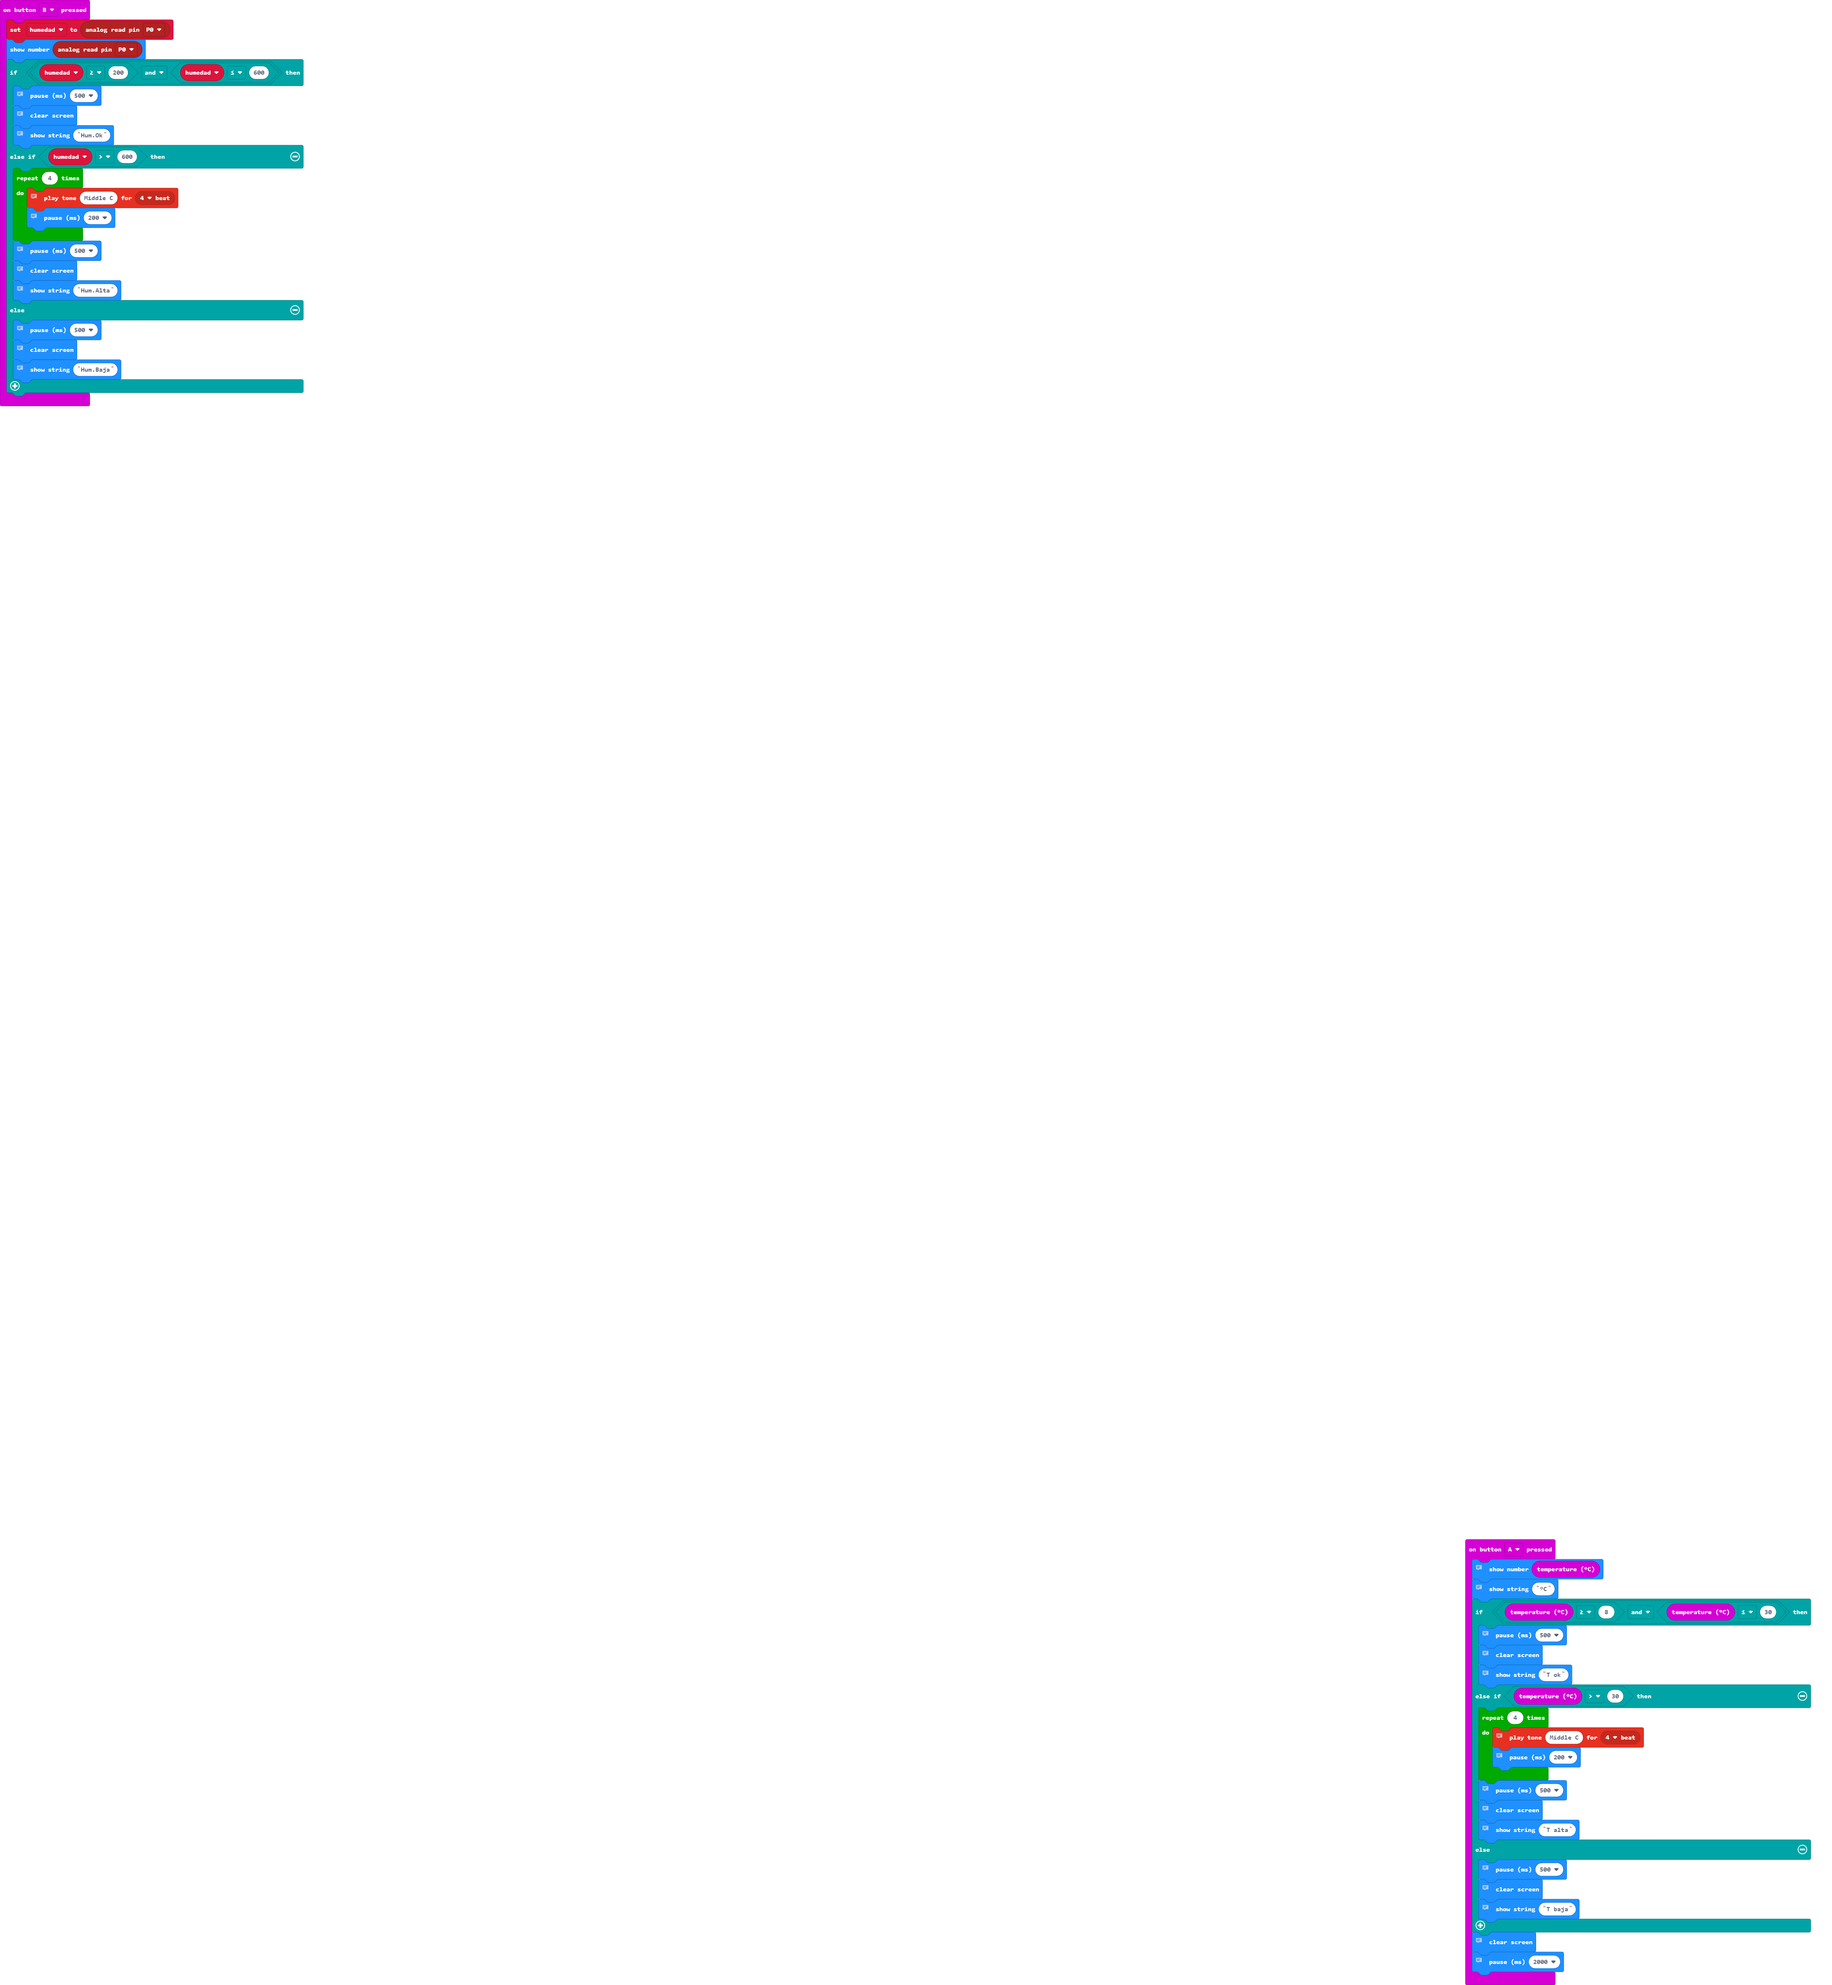
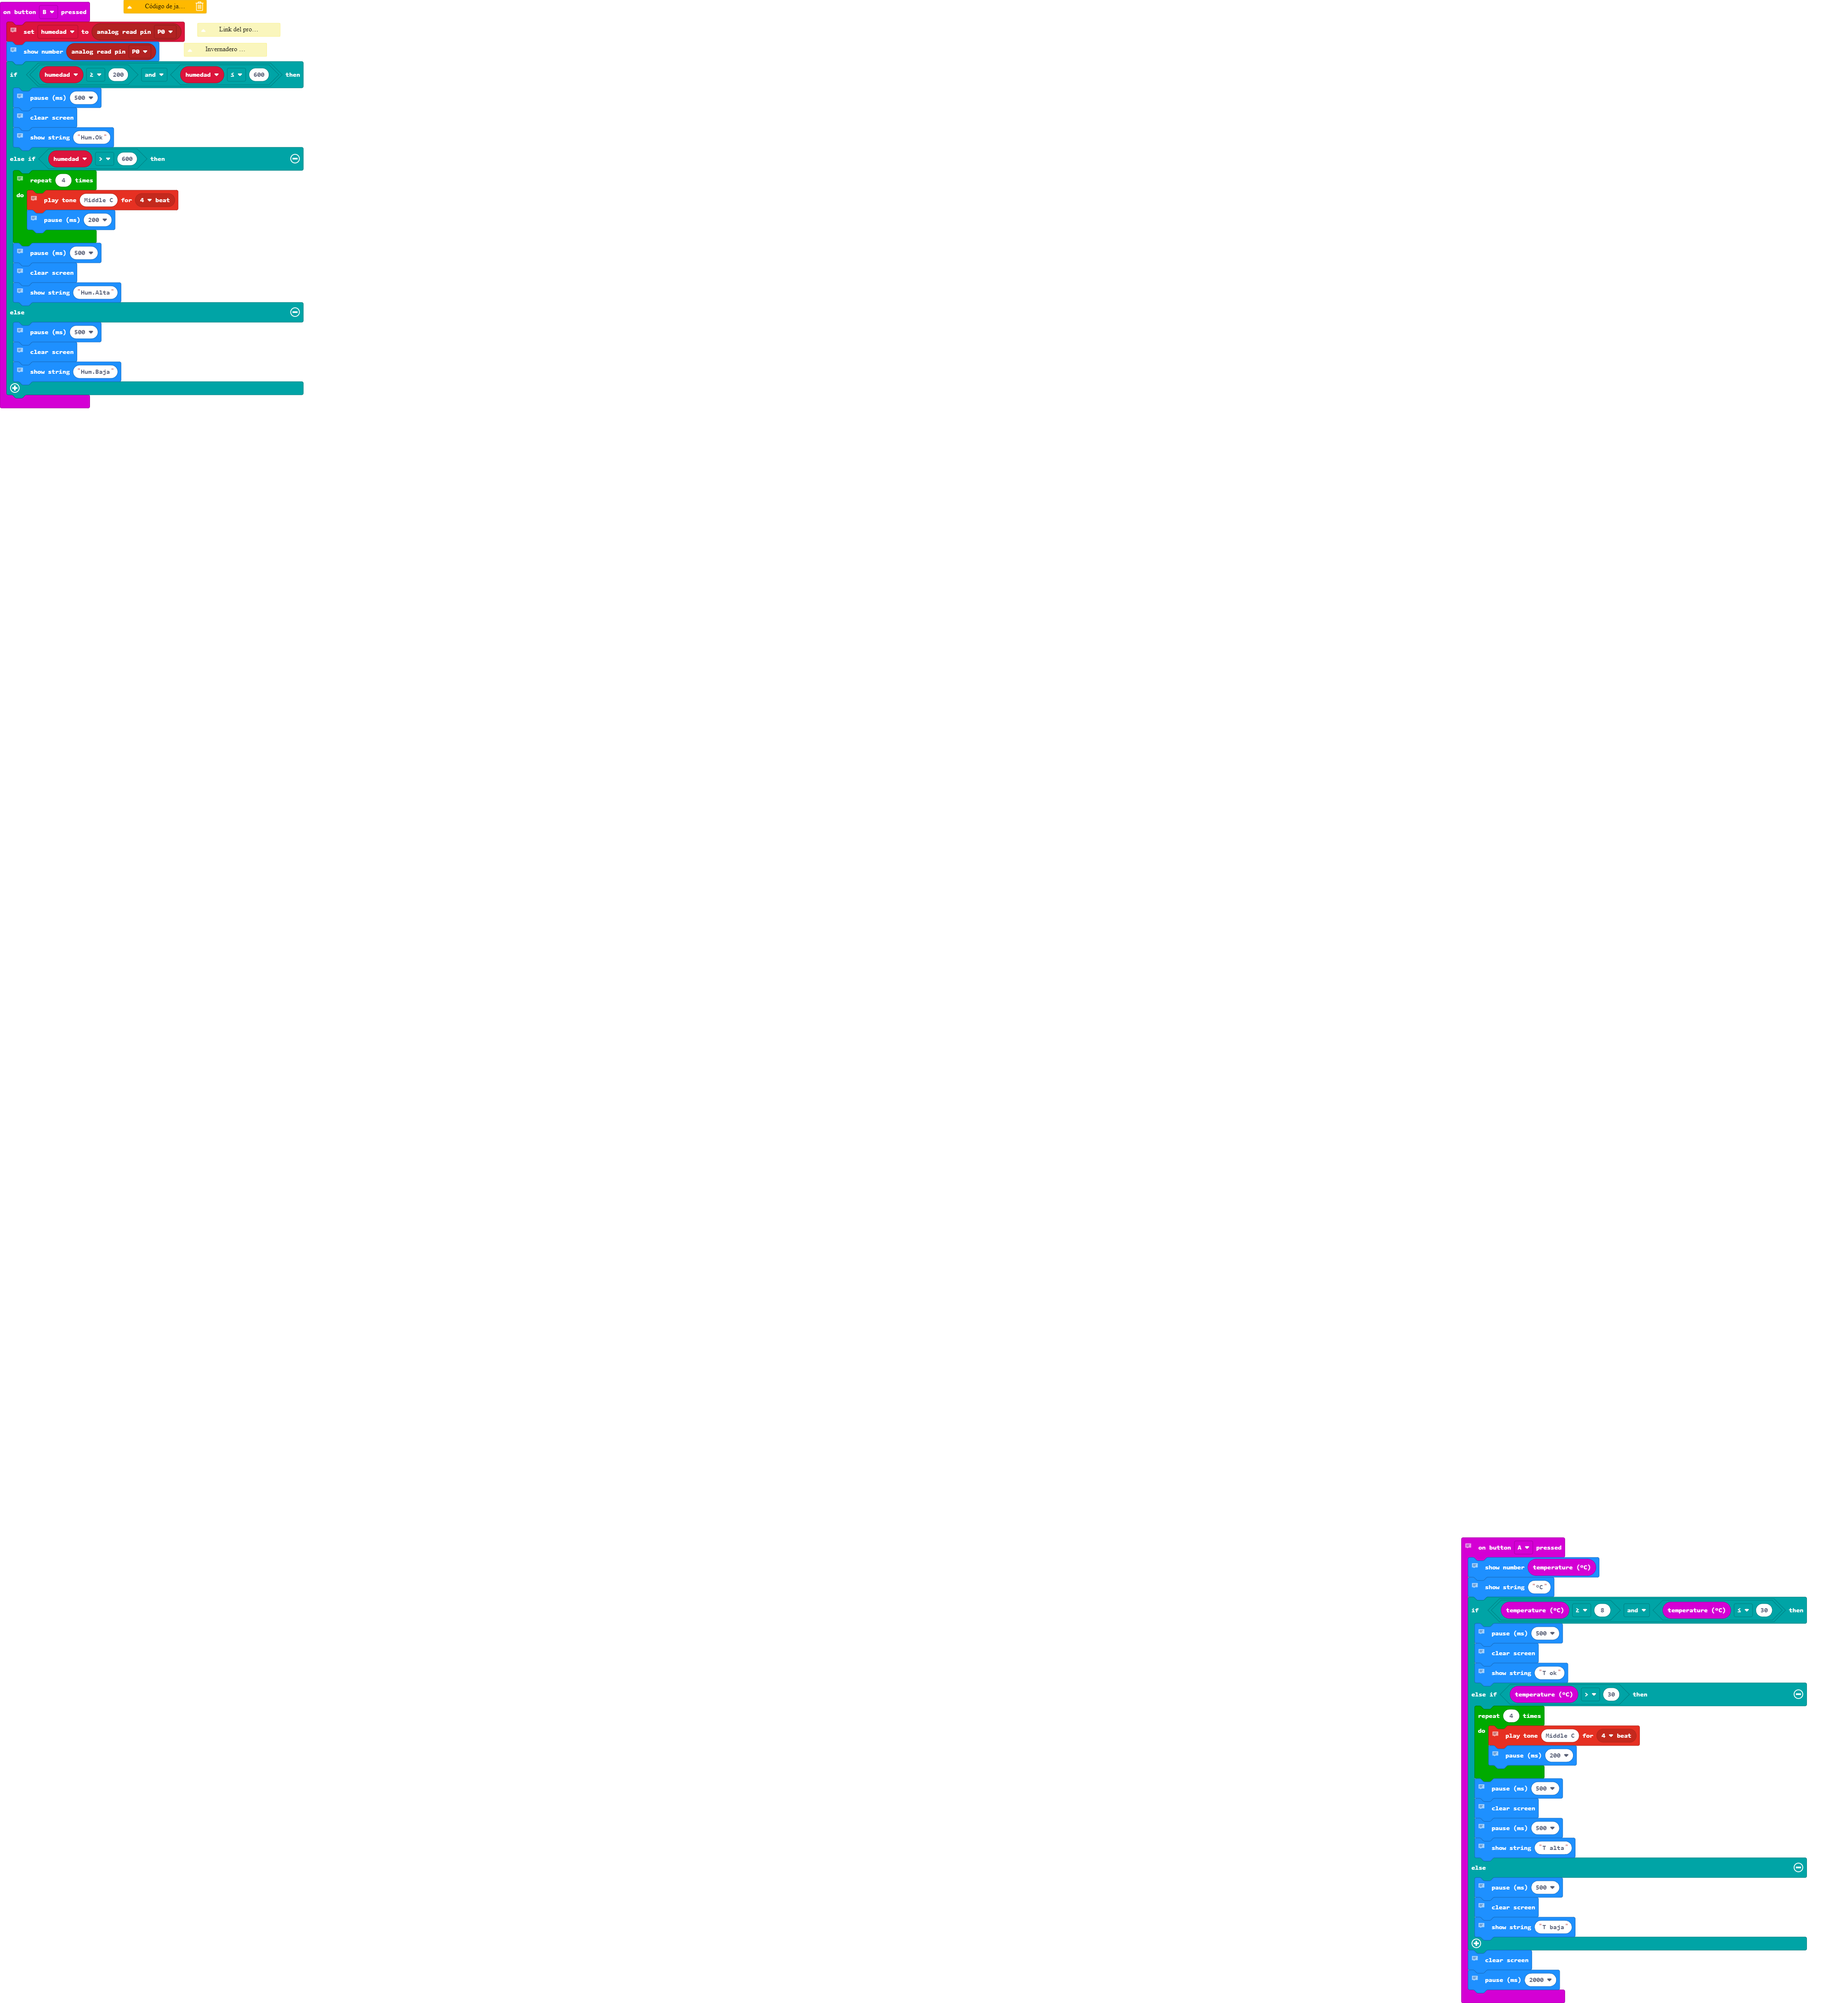
comments in code

Changed region(s): [[0.7788, 0.7481, 0.9968, 1.0], [0.0, 0.0, 0.1558, 0.2182]]

diff --git a/main.ts b/main.ts
@@ -1,7 +1,8 @@
 let humedad = 0
+// establece en cero el valor inicial de humedad. La variable puede tomar un valor aleatorio entre 0 y 1023
 input.onButtonPressed(Button.A, function () {
-    // muestra la temperatura
-    // actual del sensor del microbit, por defecto aparece en 21 grados celsius, pero se puede modificar durante las pruebas
+    // acciones al presionar el botón A
+    // muestra la temperatura actual del sensor del microbit, por defecto aparece en 21 grados celsius, pero se puede modificar durante las pruebas
     basic.showNumber(input.temperature())
     // muestra el símbolo de grados celsius
     basic.showString("°C")
@@ -10,7 +11,7 @@ input.onButtonPressed(Button.A, function () {
         basic.pause(500)
         // limpiar pantalla
         basic.clearScreen()
-        // muestre mensaje OK
+        // muestre mensaje Temp. OK
         basic.showString("T ok")
     } else if (input.temperature() > 30) {
         for (let index = 0; index < 4; index++) {
@@ -24,7 +25,9 @@ input.onButtonPressed(Button.A, function () {
         basic.pause(500)
         // limpiar pantalla
         basic.clearScreen()
-        // muestre mensaje Temp. alta        basic.pause(500) // pausa de 500 milisegundos
+        // pausa de 500 milisegundos
+        basic.pause(500)
+        // muestre mensaje Temp. alta
         basic.showString("T alta")
     } else {
         // condicional en caso de que la temperatura sea inferior a 8 grados celsius
@@ -40,17 +43,49 @@ input.onButtonPressed(Button.A, function () {
     // espera de 2 segundos hasta volver a empezar
     basic.pause(2000)
 })
+/**
+ * Código de javascript
+ */
+/**
+ * Link del proyecto en Makecode:
+ * 
+ * https://makecode.microbit.org/_RMiAf7fRUXyF
+ * 
+ * Link del proyecto en Github:
+ * 
+ * https://github.com/dannybalanta/invernadero
+ * 
+ * Nota: es posible trabajar este código usando el condicional if o el bucle while, el resultado es exactamemte el mismo en ambos casos
+ */
+/**
+ * Invernadero - monitor de temperatura y humedad
+ * 
+ * Es una aplicación de microbit que gestiona un invernadero con dos variables: temperatura y humedad. Mantiene la temperatura (T) entre 8 a 30 grados celsius y la humedad (H) entre 200 a 600 unidades de humedad. Si la temperatura excede 30 grados y la humedad el valor de 600 produce unas alarmas de alerta en ambas variables. Lo que sucede se informa en el tablero LED mostrando T baja, T normal o OK y T alta en el panel LED, o si la humedad es normal (H. ok), alta (H.alta) o baja (H.baja). También se agrega un sonido de alarma en caso tal de que las temperaturas o humedades sean demasiado altas de acuerdo a las condiciones de trabajo.
+ * 
+ * En esencia este código de invernadero está basado en el de Salvemos a las tortugas
+ * 
+ * Curso Coding 4 Kids
+ * 
+ * Estudiante Danny Balanta
+ * 
+ * Fecha de presentación: 3 de Noviembre de 2020
+ */
 input.onButtonPressed(Button.B, function () {
+    // acciones al presionar el botón B
+    // asociar la variable creada llamada humedad a la lectura del pin análogo P0
     humedad = pins.analogReadPin(AnalogPin.P0)
+    // lea el pin P0 y tome su valor aleatorio entre 0 y 1023 después de presionar el botón B
     basic.showNumber(pins.analogReadPin(AnalogPin.P0))
     if (humedad >= 200 && humedad <= 600) {
+        // condicional if que evalúa si la humedad está entre 200 y 600 unidades
         // pausa de 500 milisegundos
         basic.pause(500)
         // limpiar pantalla
         basic.clearScreen()
-        // muestre mensaje OK
+        // muestre mensaje Humedad OK
         basic.showString("Hum.Ok")
     } else if (humedad > 600) {
+        // condicional if que evalúa si la humedad excede las 600 unidades
         for (let index = 0; index < 4; index++) {
             // alarma que alerte de alta temperatura sonando 4 veces
             // reproduce sonido
@@ -62,15 +97,15 @@ input.onButtonPressed(Button.B, function () {
         basic.pause(500)
         // limpiar pantalla
         basic.clearScreen()
-        // muestre mensaje OK
+        // muestre mensaje Humedad Alta
         basic.showString("Hum.Alta")
     } else {
-        // condicional en caso de que la temperatura sea inferior a 8 grados celsius
+        // condicional en caso de que la Humedad sea inferior a 200 unidades
         // pausa de 500 milisegundos
         basic.pause(500)
         // limpiar pantalla
         basic.clearScreen()
-        // muestre mensaje Temp. baja
+        // muestre mensaje Hum. Baja
         basic.showString("Hum.Baja")
     }
 })
